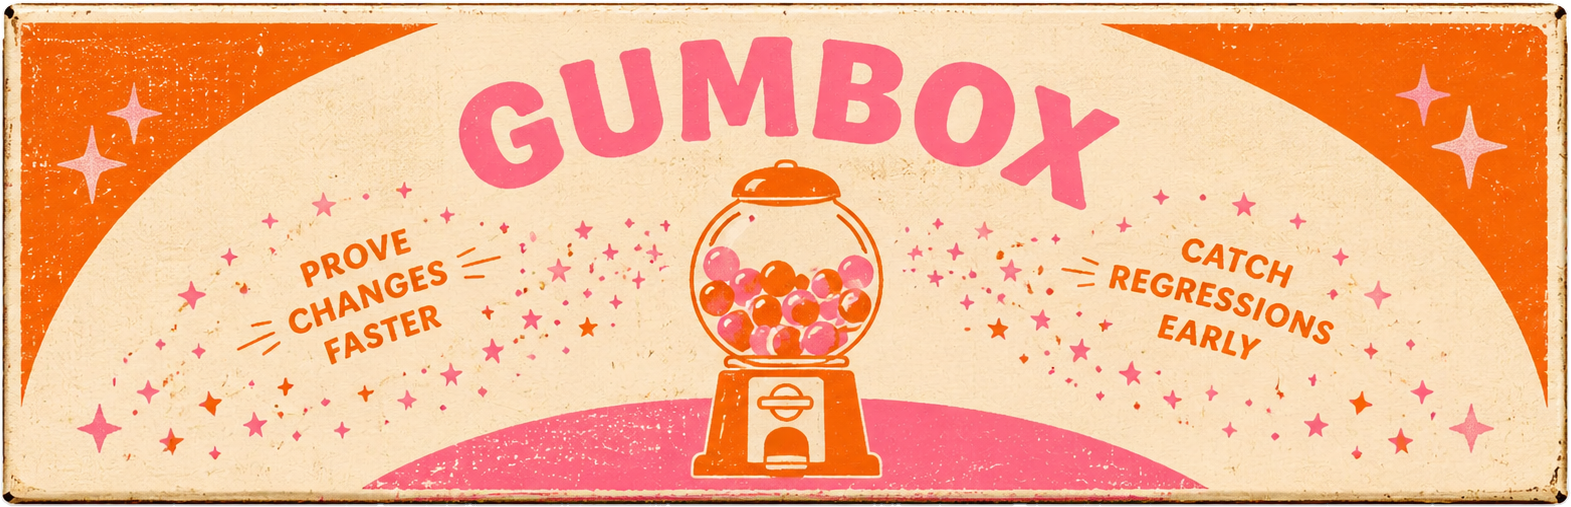
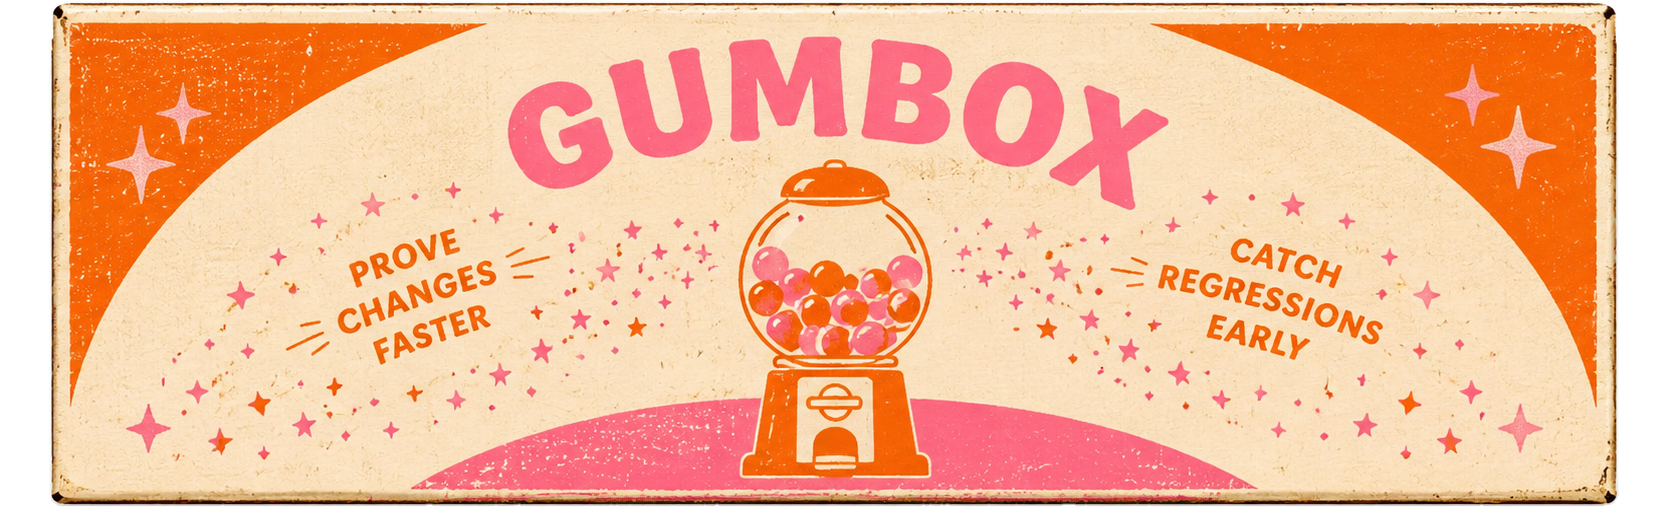
updated README

diff --git a/CONTRIBUTING.md b/CONTRIBUTING.md
@@ -1,31 +1,49 @@
 # Contributing to gumbox
 
-gumbox runs **boxes**: small TypeScript files that drive a real Vite pipeline
-— dev server, HMR file edits, builds, a real browser — and write a JSON
-**receipt** proving exactly what happened. It replaces the brittle smoke
-scripts repos accumulate (`scripts/smoke-*.mjs`) with evidence you can read
-after the fact.
+gumbox runs **boxes** — small TypeScript files that drive a real Vite pipeline (dev server,
+file edits, builds, a real browser) and write a JSON **receipt** proving what happened.
 
-Contributing here means making the runtime observe Vite more faithfully,
-making receipts richer, or making the authoring API clearer. This guide gets
-you productive on that.
+Contributing here means one of three things: making gumbox observe Vite more faithfully,
+making receipts richer, or making the authoring API clearer. This guide gets you productive
+on all three.
 
-## Setup (two minutes, no Deno experience needed)
+## Setup (two minutes)
 
-This repo runs on Deno — there is no Node/npm/pnpm setup, `deno.json` is the
-whole manifest.
+The repo runs on Deno — no Node/npm/pnpm setup, `deno.json` is the whole manifest.
 
 1. Install Deno: <https://docs.deno.com/runtime/getting-started/installation/>
-2. `deno install` (Deno fetches the npm dependencies for you)
+2. `deno install` — Deno fetches the npm dependencies for you
 3. `deno task dev` — the test suite in watch mode, your main feedback loop
 
-Also useful: `deno task test` (run once), `deno task build` (bundle to
-`dist/`), `deno task check` (format + lint + types; CI runs this), and
-`deno task fmt` when `check` complains about formatting.
+| Task              | What it does                           |
+| ----------------- | -------------------------------------- |
+| `deno task dev`   | tests in watch mode (start here)       |
+| `deno task test`  | run the suite once                     |
+| `deno task check` | format + lint + types — CI runs this   |
+| `deno task fmt`   | fix formatting when `check` complains  |
+| `deno task build` | bundle to `dist/` (what consumers run) |
 
-## The mental model: box → evidence → receipt
+Browser-dependent tests use your installed Chrome/Edge via `playwright-core` and skip
+automatically on machines without one — nothing to download.
 
-Everything in this codebase serves this loop. A box looks like this:
+## How a box run works
+
+Everything in this codebase serves one loop:
+
+```mermaid
+flowchart LR
+    box["📦 cart.box.ts"]:::pink --> runner["runner<br/>builds the box context"]:::orange
+    runner --> vite["your real Vite pipeline<br/>dev · build · preview"]:::cream
+    vite --> evidence["evidence store<br/>HMR payloads · invalidations<br/>console · network · artifacts"]:::cream
+    evidence --> expect["expect.*<br/>diffs expectation vs evidence"]:::orange
+    expect --> receipt["🧾 receipt.json<br/>pass or fail, with the whole story"]:::pink
+
+    classDef orange fill:#F97316,stroke:#C2410C,color:#ffffff
+    classDef pink fill:#EC4899,stroke:#BE185D,color:#ffffff
+    classDef cream fill:#FFF7ED,stroke:#F97316,color:#7C2D12
+```
+
+A box looks like this:
 
 ```ts
 import { box } from 'gumbox';
@@ -47,83 +65,111 @@ export default box('message updates without reload', async ({ browser, project, 
 });
 ```
 
-While that runs, gumbox is recording **evidence**: every hot-channel payload,
-invalidated module, server restart, browser console error, navigation, and
-screenshot — whether or not the box asserts on it. The run ends with a
-versioned JSON receipt under `.gumbox/receipts/<run>/` that shows the edit
-diff, each environment's reaction, every assertion (passed AND failed, with
-expected vs observed), and a causal timeline.
+While that runs, gumbox records **evidence** — every hot-channel payload, invalidated module,
+server restart, console error, navigation, and screenshot — whether or not the box asserts on
+it. The run ends with a versioned JSON receipt under `.gumbox/receipts/<run>/` showing the
+edit diff, each environment's reaction, every assertion (passed AND failed, with expected vs
+observed), and a causal timeline.
 
-Two design rules follow from this and shape most reviews:
+### Two rules that shape most reviews
 
-- **An assertion is a partial receipt.** `expect.edit(change, {...})` takes
-  the same shape the receipt records — authors copy the outcome they expect.
-  Don't add method-grammar assertions (`noFullReload`-style names were
-  removed deliberately).
-- **Receipts must not lie.** gumbox drives the _project's own_ Vite copy,
-  never imposes `NODE_ENV`, and never replaces real pipeline behavior with
-  mocks. If gumbox changes what the pipeline would have produced, that's a
-  bug — we've shipped fixes for exactly that (see `src/vite-loader.ts`).
+- **An assertion is a partial receipt.** `expect.edit(change, {...})` takes the same shape the
+  receipt records — authors copy the outcome they expect. Don't add method-grammar assertions
+  (`noFullReload`-style names were removed deliberately).
+- **Receipts must not lie.** gumbox drives the _project's own_ Vite copy, never imposes
+  `NODE_ENV`, and never replaces real pipeline behavior with mocks. If gumbox changes what the
+  pipeline would have produced, that's a bug — we've shipped fixes for exactly that (see
+  `src/vite-loader.ts`).
 
-## Where things live
+## Code map
 
-- `specs/` — **product truth.** What the API and receipts must do. Behavior
-  changes start by checking (or changing) the spec.
-- `src/box.ts`, `src/discovery.ts` — `box()` and `*.box.ts` file discovery
-- `src/runner.ts` — runs one box: builds the six-key context
-  (`environment`, `browser`, `project`, `pipeline`, `expect`, `receipt`),
-  owns setup/teardown and guaranteed file restoration
-- `src/evidence.ts` — the evidence store: hooks into Vite's hot channel and
-  `hotUpdate` hook, classifies each environment's reaction to an edit
-- `src/expect.ts` — the assertion surface (`expect.edit`,
-  `expect.page.outcome`, `expect.build.forbids`, ...)
-- `src/project.ts` — file edits with diffs and restore
-- `src/build.ts`, `src/preview.ts` — `pipeline.build()` / `pipeline.preview()`
-- `src/browser.ts` + `src/cli/browser-host.ts` — browser evidence as an
-  injected capability (playwright-core lives only at the host boundary)
-- `src/receipt.ts` — receipt assembly and writing
-- `src/cli/` — the `gumbox` CLI and the host boundary (argv/exit/fs)
-- `test/fixtures/` — small real Vite apps the tests run boxes against; the
-  box files inside them are executable documentation of the API
-- `test/*.test.ts` — the suite; tests copy a fixture to a temp dir, run
-  boxes through the real pipeline, then assert on the written receipt JSON
+```mermaid
+flowchart TD
+    specs["📜 specs/<br/>product truth — behavior changes start here"]:::pink
+
+    subgraph authoring["Authoring"]
+        boxfn["box.ts<br/>the box() function"]:::cream
+        disc["discovery.ts<br/>finds *.box.ts files,<br/>derives names"]:::cream
+    end
+
+    subgraph engine["Engine — one box run"]
+        runner["runner.ts<br/>six-key context, lifecycle,<br/>guaranteed file restoration"]:::orange
+        project["project.ts<br/>file edits + diffs + restore"]:::cream
+        buildprev["build.ts · preview.ts<br/>pipeline.build / preview"]:::cream
+        browser["browser.ts<br/>page evidence"]:::cream
+        evidence["evidence.ts<br/>taps Vite's hot channel and<br/>hotUpdate hook, classifies reactions"]:::orange
+        expectfile["expect.ts<br/>the assertion surface"]:::orange
+        receiptfile["receipt.ts<br/>assembles and writes receipts"]:::cream
+    end
+
+    subgraph host["Host boundary — the only place runtime APIs are allowed"]
+        cli["cli/<br/>argv · fs · signals · colors ·<br/>playwright-core"]:::pink
+    end
+
+    specs -.govern.-> engine
+    disc --> runner
+    boxfn --> disc
+    runner --> project & buildprev & browser
+    project & buildprev & browser --> evidence
+    evidence --> expectfile --> receiptfile
+    cli --> runner
+
+    classDef orange fill:#F97316,stroke:#C2410C,color:#ffffff
+    classDef pink fill:#EC4899,stroke:#BE185D,color:#ffffff
+    classDef cream fill:#FFF7ED,stroke:#F97316,color:#7C2D12
+```
+
+Two places not on the diagram that you'll touch constantly:
+
+- `test/fixtures/` — small real Vite apps the tests run boxes against; the box files inside
+  them are executable documentation of the API
+- `test/*.test.ts` — the suite; tests copy a fixture to a temp dir, run boxes through the real
+  pipeline, then assert on the written receipt JSON
 
 ## Making a change
 
-1. Find the spec section that covers the behavior (`specs/box-authoring.md`
-   for the API, `specs/scenarios-and-receipts.md` for receipts). If your
-   change contradicts it, the spec changes first — in the same PR is fine.
-2. Write the failing test: usually a small box in a `test/fixtures/*` app
-   plus a test that runs it and asserts on the receipt. Run it with
-   `deno task dev`.
-3. Implement, keep `deno task dev` green, then run the full
-   `deno task test && deno task build && deno task check`.
+```mermaid
+flowchart TD
+    spec["1 · Check specs/ — does the spec cover it?<br/>If your change contradicts it, change the spec first<br/>(same PR is fine)"]:::pink
+    test["2 · Write the failing test:<br/>a small box in test/fixtures/* plus a test<br/>that runs it and asserts on the receipt"]:::orange
+    red{"fails for the<br/>right reason?"}:::cream
+    impl["3 · Implement the smallest change<br/>that makes it pass"]:::orange
+    green{"deno task dev<br/>green?"}:::cream
+    verify["4 · deno task test && deno task build && deno task check"]:::orange
+    pr["Open the PR 🎉"]:::pink
+
+    spec --> test --> red
+    red -- "no — fix the test" --> test
+    red -- yes --> impl --> green
+    green -- "no — keep iterating" --> impl
+    green -- yes --> verify --> pr
+
+    classDef orange fill:#F97316,stroke:#C2410C,color:#ffffff
+    classDef pink fill:#EC4899,stroke:#BE185D,color:#ffffff
+    classDef cream fill:#FFF7ED,stroke:#F97316,color:#7C2D12
+```
 
 Testing rules you'll be reviewed against:
 
 - Drive the **real** Vite pipeline; never mock it.
-- Waits are event-driven (evidence events, page conditions) — never
-  `sleep(250)`.
-- Failure paths matter: if you add an assertion, prove it can fail (the
-  suite has deliberate-failure boxes for exactly this).
+- Waits are event-driven (evidence events, page conditions) — never `sleep(250)`.
+- Failure paths matter: if you add an assertion, prove it can fail (the suite has
+  deliberate-failure boxes for exactly this).
 
-And the portability rule that surprises newcomers: **`src/` and test bodies
-never import `node:*` or touch `process.*`/`Deno.*`.** Paths come from
-`pathe`, module utils from `mlly`, globbing from `tinyglobby`, filesystem
-access through the injected `GumboxFileSystem`. Only explicit host
-boundaries (`src/cli/host.ts`, `test/support/*`) may adapt runtime APIs.
-Full policy: `.claude/rules/runtime-agnostic-tooling.md`.
+### The rule that surprises newcomers
 
-Browser-dependent tests use your installed Chrome/Edge via `playwright-core`
-and skip automatically on machines without one — nothing to download.
+**`src/` and test bodies never import `node:*` or touch `process.*`/`Deno.*`.** Paths come
+from `pathe`, module utils from `mlly`, globbing from `tinyglobby`, filesystem access through
+the injected `GumboxFileSystem`. Only explicit host boundaries (`src/cli/host.ts`,
+`test/support/*`) may adapt runtime APIs. Full policy:
+`.claude/rules/runtime-agnostic-tooling.md`.
 
 ## See it used for real
 
-The sibling `qwik-bundler` repo consumes gumbox via `link:../gumbox`: its
-`boxes/` directory replaced thirteen smoke scripts with twelve boxes (HMR
-across client/SSR/workerd environments, build artifact scans, state
-preservation). When you change the authoring API or receipts, those boxes
-are the best reality check — and the best examples to read.
+The sibling `qwik-bundler` repo consumes gumbox via `link:../gumbox`: its `boxes/` directory
+replaced thirteen smoke scripts with twelve boxes (HMR across client/SSR/workerd environments,
+build artifact scans, state preservation). When you change the authoring API or receipts,
+those boxes are the best reality check — and the best examples to read.
 
 ## Before you open a PR
 
@@ -131,5 +177,4 @@ are the best reality check — and the best examples to read.
 deno task test && deno task build && deno task check
 ```
 
-All green, focused diff, spec updated if behavior changed. Thanks for
-contributing!
+All green, focused diff, spec updated if behavior changed. Thanks for contributing!

diff --git a/README.md b/README.md
@@ -4,23 +4,14 @@
 
 # Gumbox
 
-**See what your Vite pipeline is actually doing — and keep the receipts.**
+**See what your Vite pipeline actually did — with receipts.**
 
-You save a file and the page stays stale. You restart the dev server and now it works — this
-time. It worked in dev, then 404'd in production. Every Vite developer knows the ritual:
-restart, hard-refresh, `console.log`, pray 🙏.
+Restart, hard-refresh, `console.log`, pray 🙏 — Vite knew what happened the whole time, it
+just never told you. Gumbox runs your real pipeline and writes a **receipt** for every run:
+proof you, CI, or an AI agent can act on.
 
-Vite knew exactly what happened the whole time. It just never told you.
-
-Gumbox makes it tell you. Describe what your pipeline should do, and Gumbox runs the real
-thing — your config, your plugins, your environments — and proves what it actually did. Every
-run writes a **receipt**: evidence you, CI, or an AI agent can act on.
-
-> ⚠️ **Pre-release.** Gumbox is under active development and not yet published to npm. The API
-> follows the [specs](./specs/README.md), which are the product truth — some pieces are still
-> landing.
->
-> This project is designed by Jack, implemented by **Mythos**, with **Codex** serving as its reviewer.
+> ⚠️ **Pre-release** — not on npm yet; the [specs](./specs/README.md) are the product truth.
+> Designed by Jack, implemented by **Mythos**, reviewed by **Codex**.
 
 ## A box in 30 seconds
 